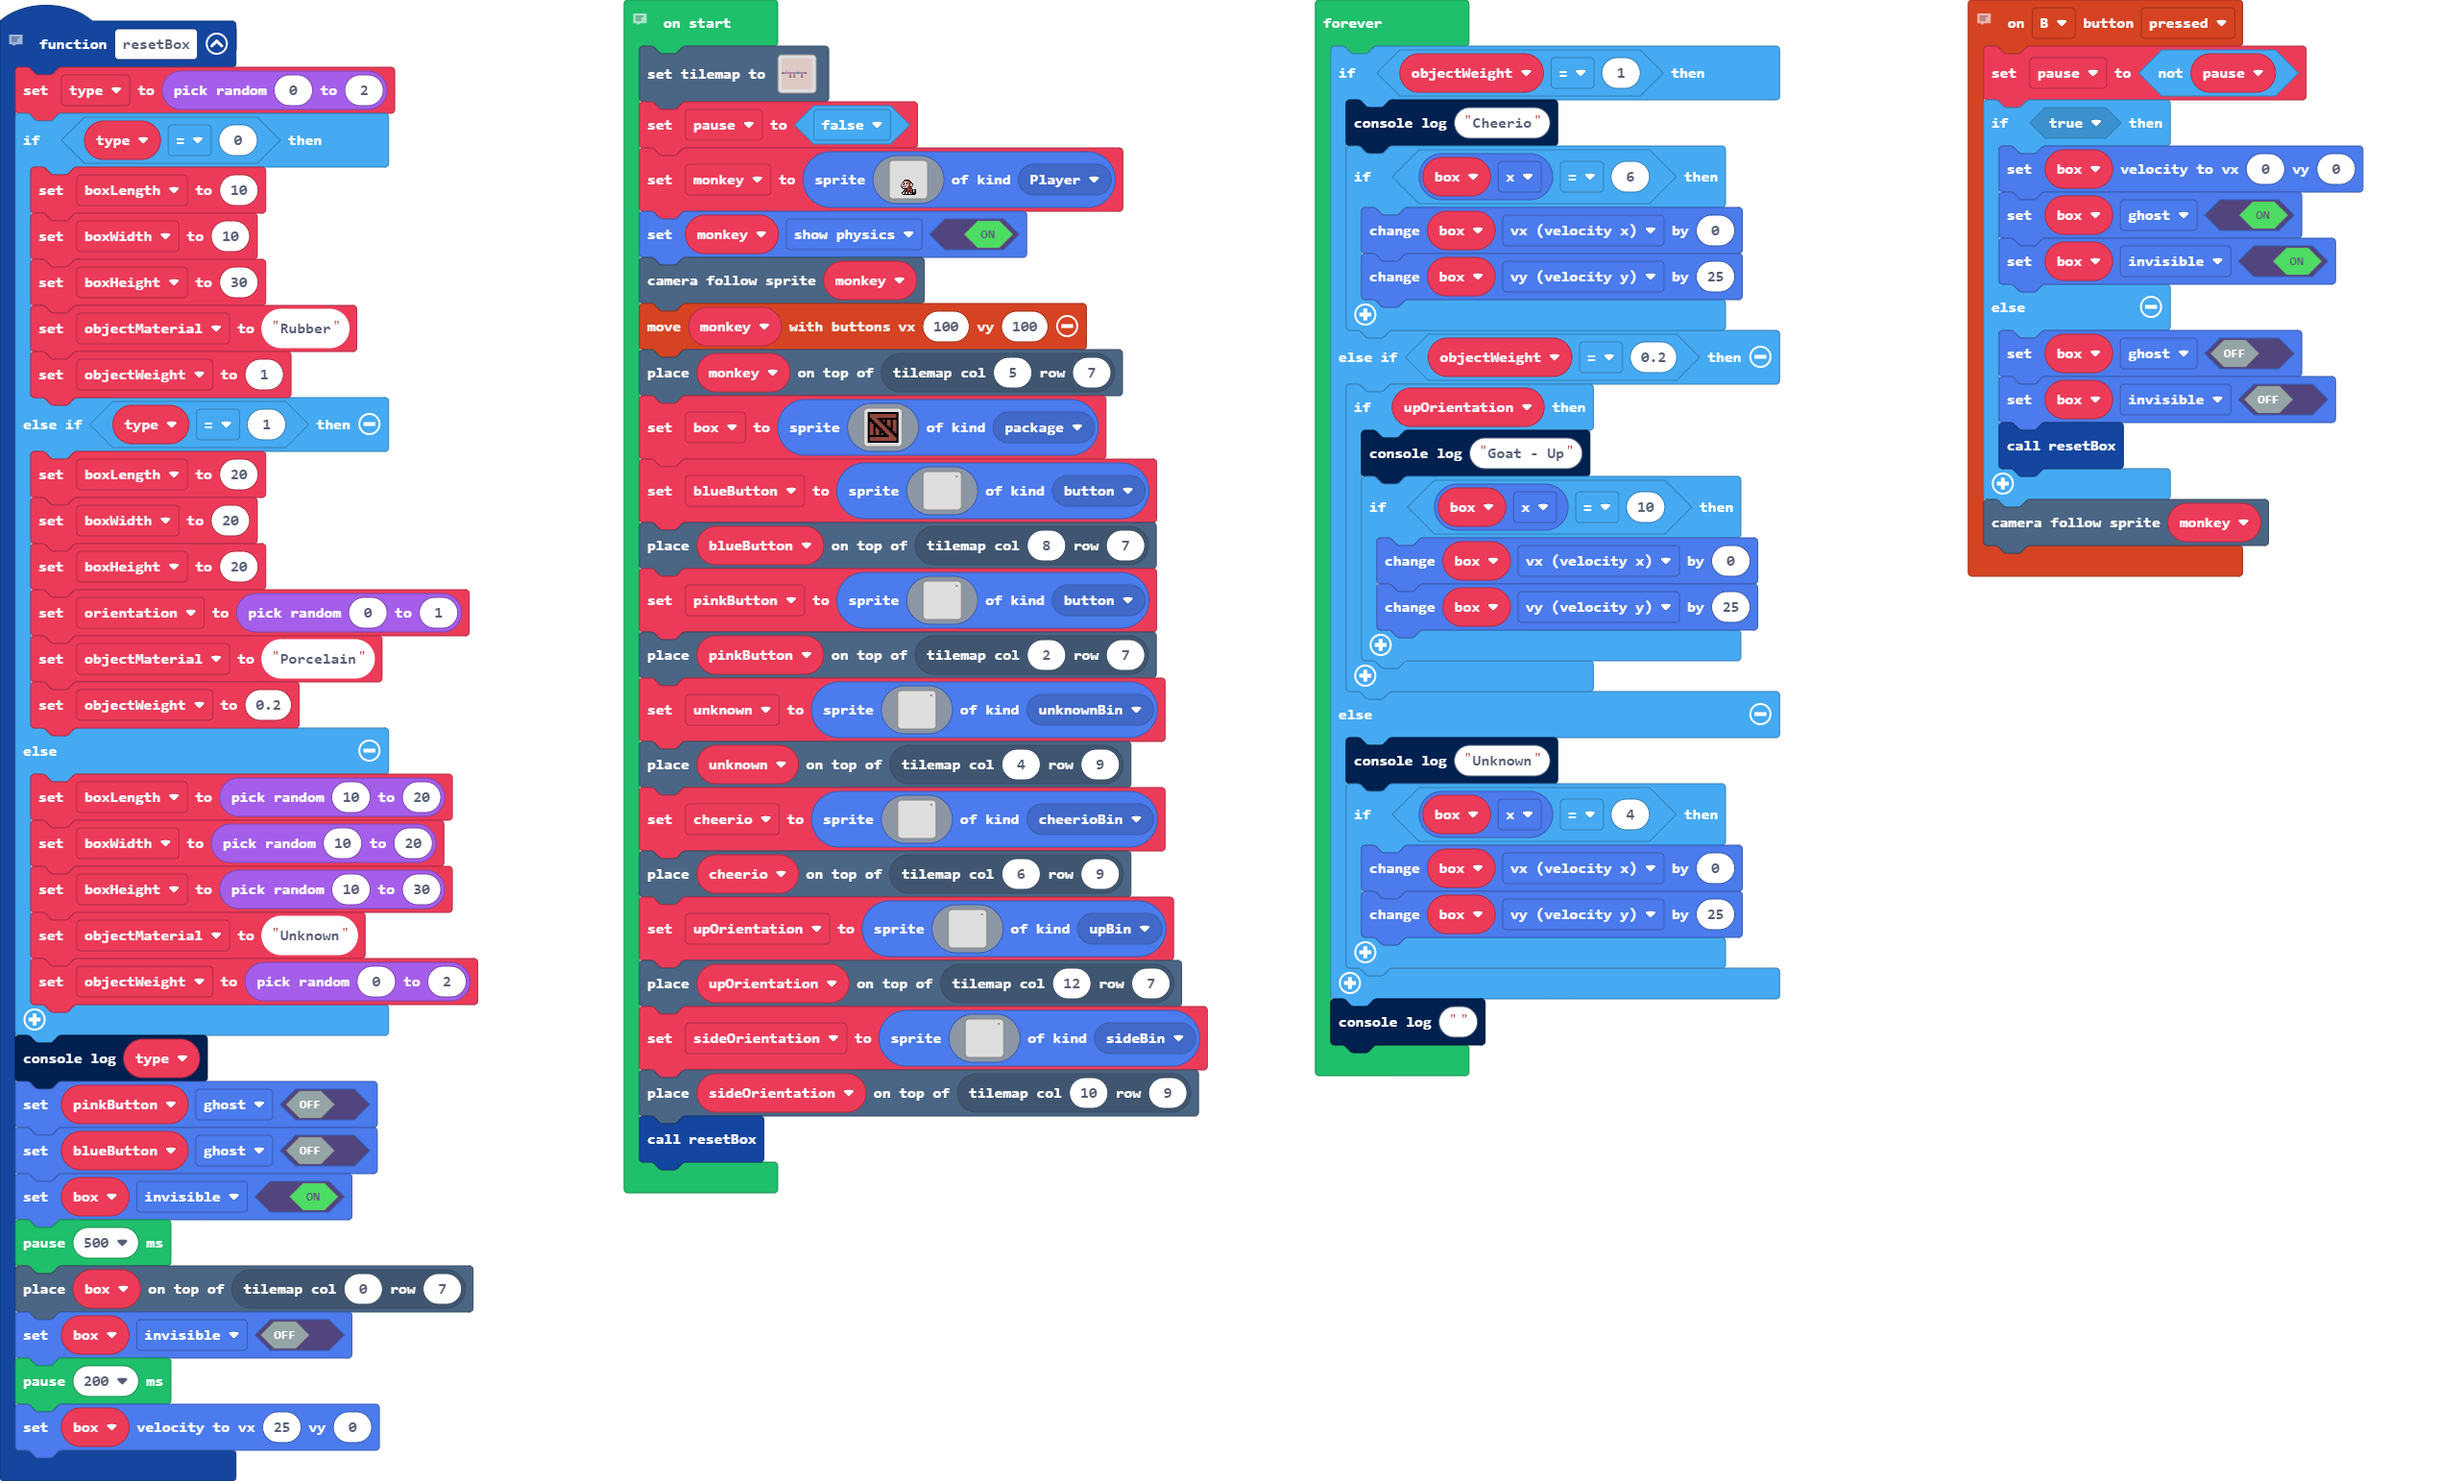
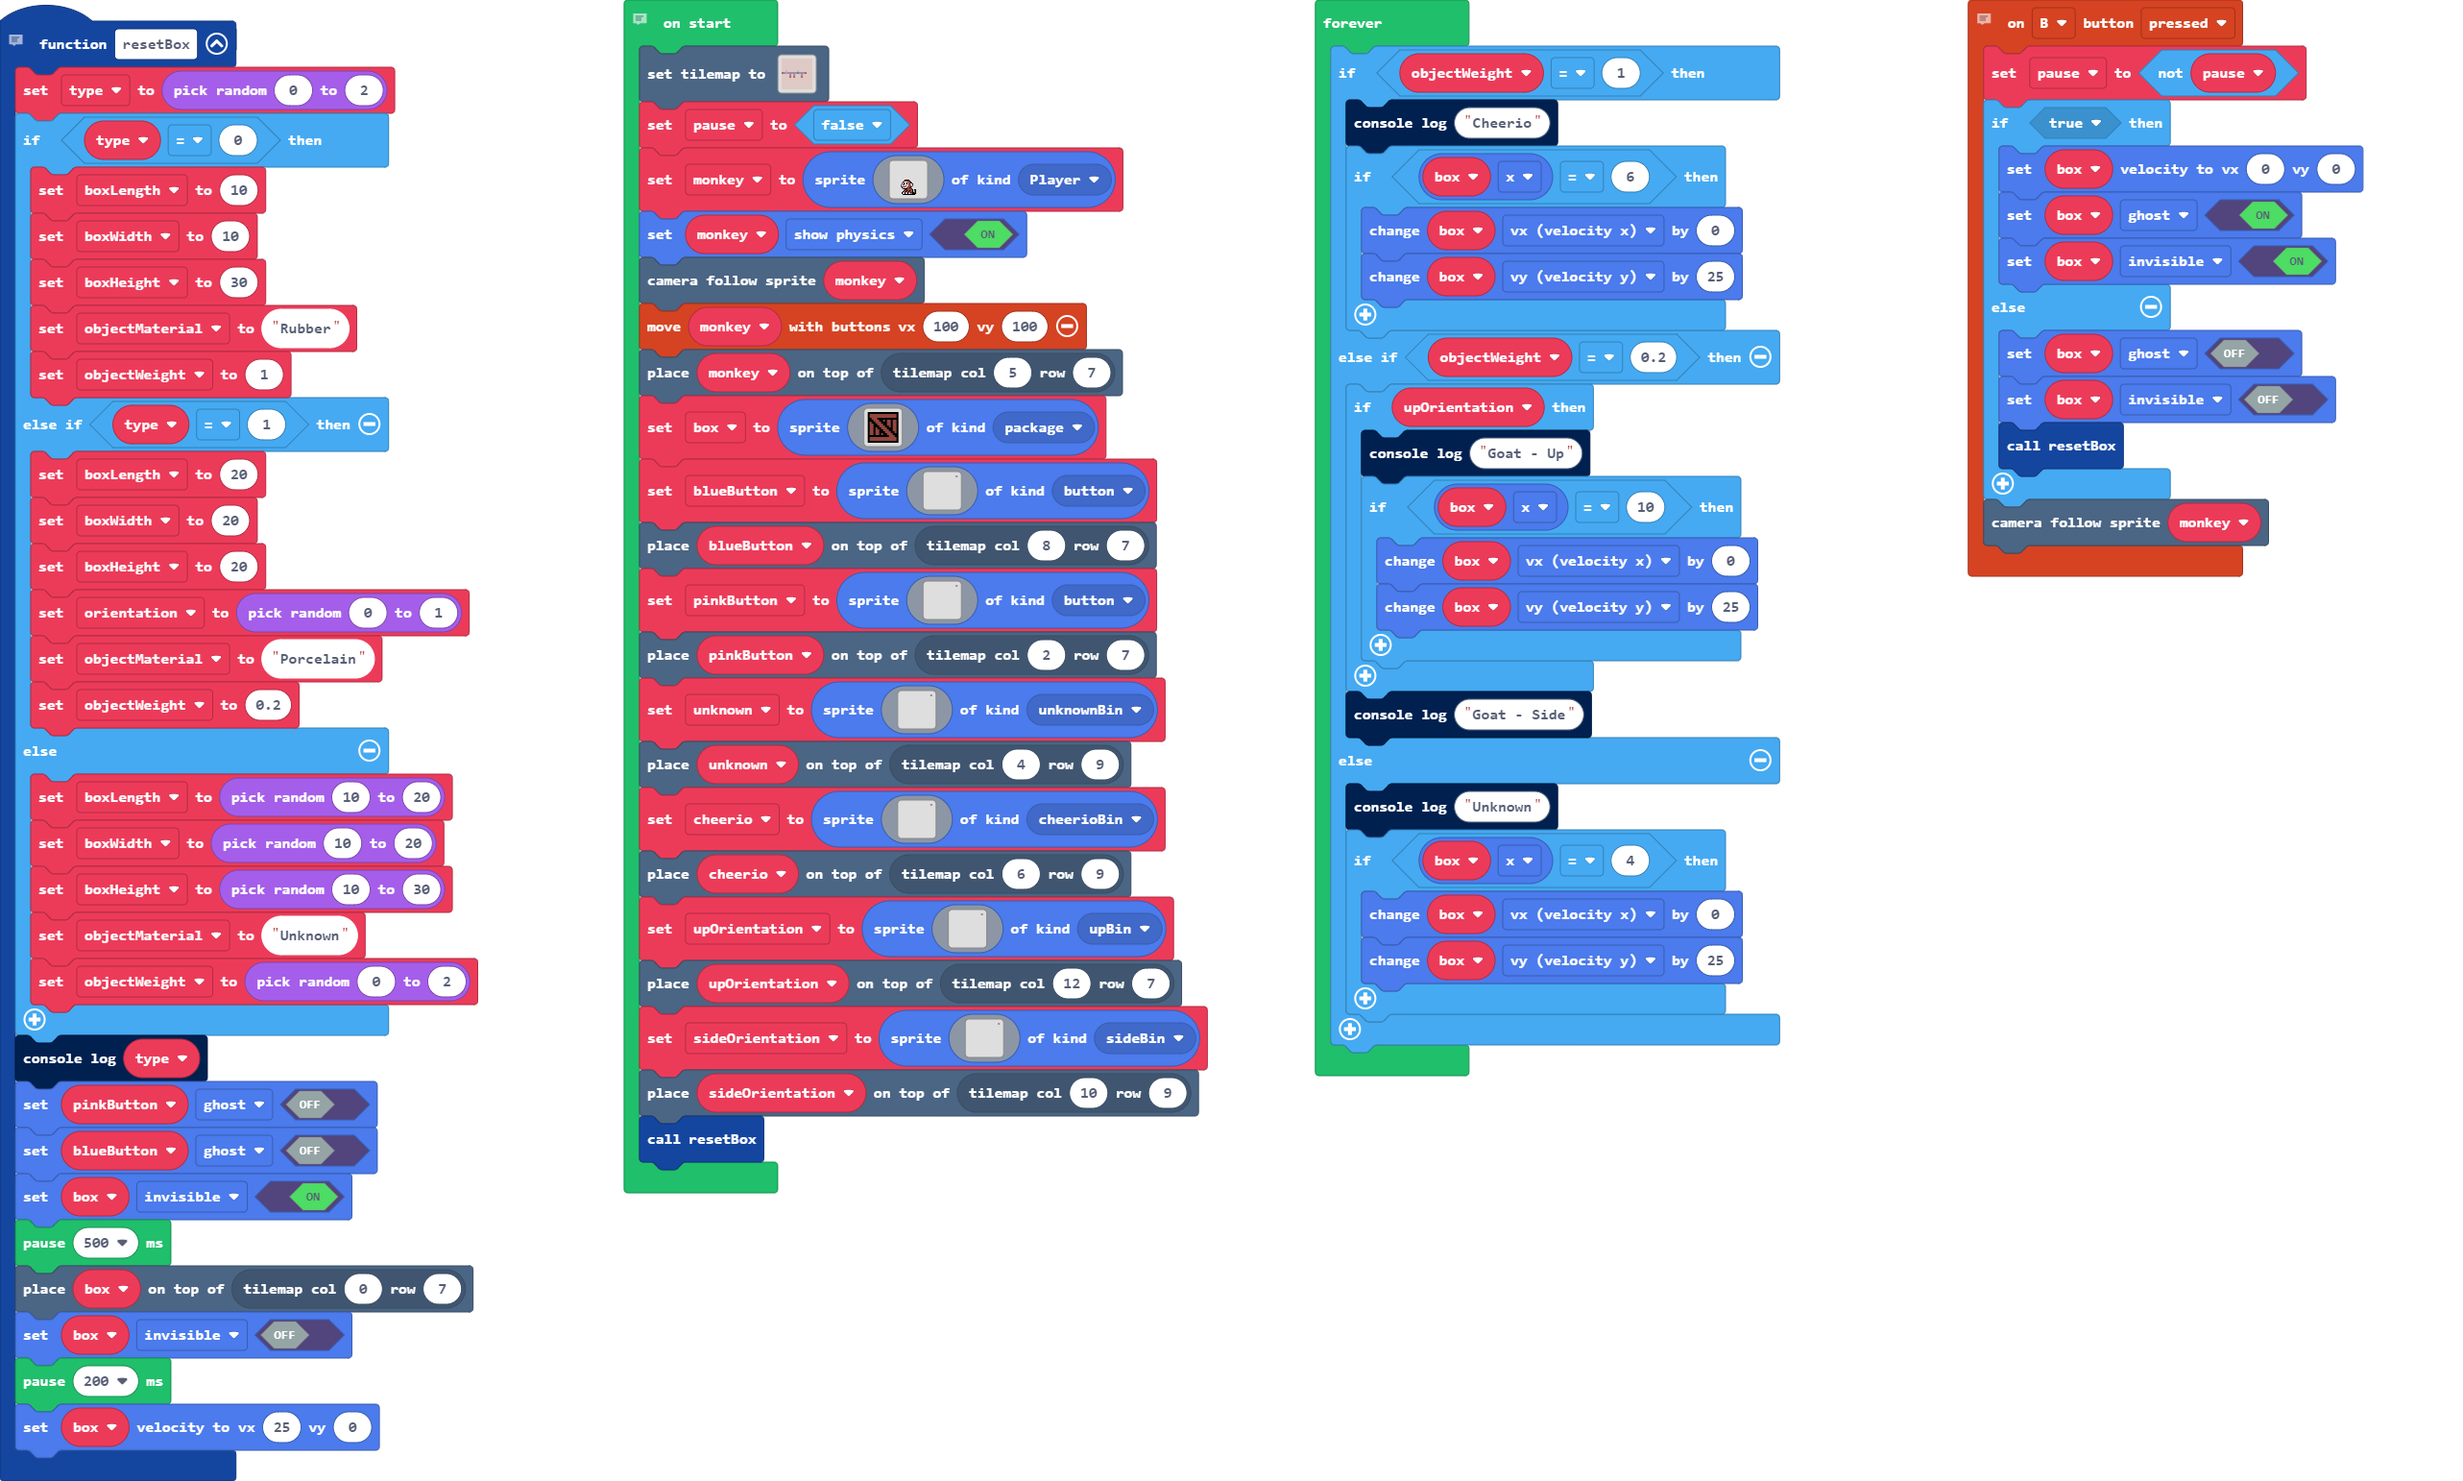
Update main.blocks, main.ts

Changed region(s): [[0.5302, 0.4669, 0.7485, 0.716]]

diff --git a/main.ts b/main.ts
@@ -273,6 +273,7 @@ forever(function () {
                 box.vy += 25
             }
         }
+        console.log("Goat - Side")
     } else {
         console.log("Unknown")
         if (box.x == 4) {
@@ -280,5 +281,4 @@ forever(function () {
             box.vy += 25
         }
     }
-    console.log("")
 })
